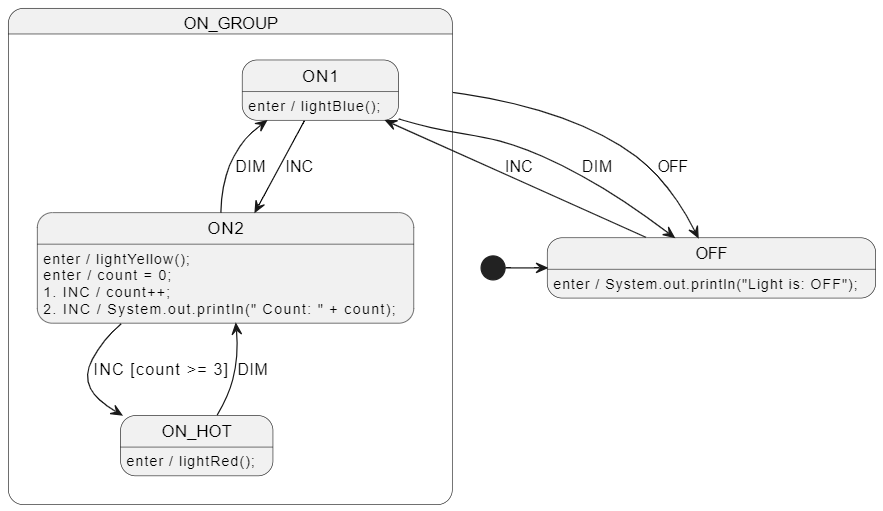
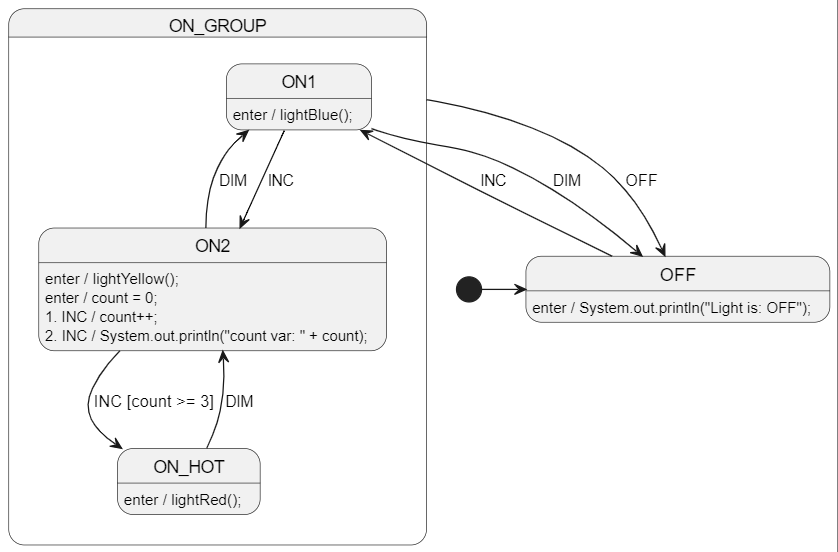
update ss.cli and print `count var:`

diff --git a/lesson-4/python/LightSm.sim.html b/lesson-4/python/LightSm.sim.html
@@ -240,7 +240,7 @@ state ON_GROUP {
 
         ON2 : 1. INC / #123; count += 1 #125;
 
-        ON2 : 2. INC / #123; print("vars.count#58#59; " + str(count)) #125;
+        ON2 : 2. INC / #123; print("count var#58#59; " + str(count)) #125;
 
         ON_HOT
 
@@ -250,7 +250,9 @@ state ON_GROUP {
 
 }
 
-state "$initial_state" as ROOT.(InitialState)
+%% Initial state name as "." so that it fits in black circle shape.
+%% See https://github.com/StateSmith/StateSmith/issues/404
+state "." as ROOT.(InitialState)
 
 OFF --> ON1 : INC
 
@@ -300,7 +302,7 @@ ROOT.(InitialState) --> OFF
     </div>
 
 <script>
-// Autogenerated with StateSmith 0.15.1+6f3f27c9be334eeec7dd0a477c6e8bd766e80440.
+// Autogenerated with StateSmith 0.17.0+b2b9f4338d0406e391502823cb5cfc243fb01849.
 // Algorithm: Balanced2. See https://github.com/StateSmith/StateSmith/wiki/Algorithms
 
 // Generated state machine
@@ -777,10 +779,10 @@ evaluateGuard = null;
         } // end of behavior for ON2
         
         // ON2 behavior
-        // uml: 2. INC / { this.tracer?.log("⚡ FSM would execute action: " + "print(\"vars.count: \" + str(count))"); }
+        // uml: 2. INC / { this.tracer?.log("⚡ FSM would execute action: " + "print(\"count var: \" + str(count))"); }
         {
-            // Step 1: execute action `this.tracer?.log("⚡ FSM would execute action: " + "print(\"vars.count: \" + str(count))");`
-            this.tracer?.log("⚡ FSM would execute action: " + "print(\"vars.count: \" + str(count))");
+            // Step 1: execute action `this.tracer?.log("⚡ FSM would execute action: " + "print(\"count var: \" + str(count))");`
+            this.tracer?.log("⚡ FSM would execute action: " + "print(\"count var: \" + str(count))");
         } // end of behavior for ON2
         
         // ON2 behavior
@@ -850,10 +852,11 @@ evaluateGuard = null;
             marker.setAttribute('markerUnits', 'userSpaceOnUse');
         });
 
+        // https://github.com/StateSmith/StateSmith/issues/404
         // https://github.com/StateSmith/StateSmith/issues/294
         // rewrite $initial_state to a black circle
         document.querySelectorAll('g[data-id*="(InitialState)"]').forEach(g=> {
-          g.innerHTML = '<circle transform="translate(0,10)" height="14" width="14" r="7" class="state - start"></circle>';
+          g.innerHTML = '<circle transform="translate(0,3)" height="14" width="14" r="14" class="state - start"></circle>';
         })
 
         var panZoom = window.panZoom = svgPanZoom(document.querySelector('svg'), {

diff --git a/lesson-4/cpp-gcc/LightSm.sim.html b/lesson-4/cpp-gcc/LightSm.sim.html
@@ -240,7 +240,7 @@ state ON_GROUP {
 
         ON2 : 1. INC / #123; count++#59; #125;
 
-        ON2 : 2. INC / #123; std#58#59;#58#59;cout << "vars.count#58#59; " << count << '#92;n'#59; #125;
+        ON2 : 2. INC / #123; std#58#59;#58#59;cout << "count var#58#59; " << count << '#92;n'#59; #125;
 
         ON_HOT
 
@@ -302,7 +302,7 @@ ROOT.(InitialState) --> OFF
     </div>
 
 <script>
-// Autogenerated with StateSmith 0.17.0+ef13205f9fee8a859b83ba447ab4a4f82141858b.
+// Autogenerated with StateSmith 0.17.0+b2b9f4338d0406e391502823cb5cfc243fb01849.
 // Algorithm: Balanced2. See https://github.com/StateSmith/StateSmith/wiki/Algorithms
 
 // Generated state machine
@@ -779,10 +779,10 @@ evaluateGuard = null;
         } // end of behavior for ON2
         
         // ON2 behavior
-        // uml: 2. INC / { this.tracer?.log("⚡ FSM would execute action: " + "std::cout << \"vars.count: \" << count << '\n';"); }
+        // uml: 2. INC / { this.tracer?.log("⚡ FSM would execute action: " + "std::cout << \"count var: \" << count << '\n';"); }
         {
-            // Step 1: execute action `this.tracer?.log("⚡ FSM would execute action: " + "std::cout << \"vars.count: \" << count << '\n';");`
-            this.tracer?.log("⚡ FSM would execute action: " + "std::cout << \"vars.count: \" << count << '\n';");
+            // Step 1: execute action `this.tracer?.log("⚡ FSM would execute action: " + "std::cout << \"count var: \" << count << '\n';");`
+            this.tracer?.log("⚡ FSM would execute action: " + "std::cout << \"count var: \" << count << '\n';");
         } // end of behavior for ON2
         
         // ON2 behavior

diff --git a/lesson-4/cpp2-gcc/LightSm.sim.html b/lesson-4/cpp2-gcc/LightSm.sim.html
@@ -240,7 +240,7 @@ state ON_GROUP {
 
         ON2 : 1. INC / #123; count++#59; #125;
 
-        ON2 : 2. INC / #123; std#58#59;#58#59;cout << "vars.count#58#59; " << count << '#92;n'#59; #125;
+        ON2 : 2. INC / #123; std#58#59;#58#59;cout << "count var#58#59; " << count << '#92;n'#59; #125;
 
         ON_HOT
 
@@ -302,7 +302,7 @@ ROOT.(InitialState) --> OFF
     </div>
 
 <script>
-// Autogenerated with StateSmith 0.17.0+ef13205f9fee8a859b83ba447ab4a4f82141858b.
+// Autogenerated with StateSmith 0.17.0+b2b9f4338d0406e391502823cb5cfc243fb01849.
 // Algorithm: Balanced2. See https://github.com/StateSmith/StateSmith/wiki/Algorithms
 
 // Generated state machine
@@ -779,10 +779,10 @@ evaluateGuard = null;
         } // end of behavior for ON2
         
         // ON2 behavior
-        // uml: 2. INC / { this.tracer?.log("⚡ FSM would execute action: " + "std::cout << \"vars.count: \" << count << '\n';"); }
+        // uml: 2. INC / { this.tracer?.log("⚡ FSM would execute action: " + "std::cout << \"count var: \" << count << '\n';"); }
         {
-            // Step 1: execute action `this.tracer?.log("⚡ FSM would execute action: " + "std::cout << \"vars.count: \" << count << '\n';");`
-            this.tracer?.log("⚡ FSM would execute action: " + "std::cout << \"vars.count: \" << count << '\n';");
+            // Step 1: execute action `this.tracer?.log("⚡ FSM would execute action: " + "std::cout << \"count var: \" << count << '\n';");`
+            this.tracer?.log("⚡ FSM would execute action: " + "std::cout << \"count var: \" << count << '\n';");
         } // end of behavior for ON2
         
         // ON2 behavior

diff --git a/lesson-4/java/my_light_package/LightSm.sim.html b/lesson-4/java/my_light_package/LightSm.sim.html
@@ -240,7 +240,7 @@ state ON_GROUP {
 
         ON2 : 1. INC / #123; count++#59; #125;
 
-        ON2 : 2. INC / #123; System.out.println("vars.count#58#59; " + count)#59; #125;
+        ON2 : 2. INC / #123; System.out.println("count var#58#59; " + count)#59; #125;
 
         ON_HOT
 
@@ -302,7 +302,7 @@ ROOT.(InitialState) --> OFF
     </div>
 
 <script>
-// Autogenerated with StateSmith 0.17.0+ef13205f9fee8a859b83ba447ab4a4f82141858b.
+// Autogenerated with StateSmith 0.17.0+b2b9f4338d0406e391502823cb5cfc243fb01849.
 // Algorithm: Balanced2. See https://github.com/StateSmith/StateSmith/wiki/Algorithms
 
 // Generated state machine
@@ -779,10 +779,10 @@ evaluateGuard = null;
         } // end of behavior for ON2
         
         // ON2 behavior
-        // uml: 2. INC / { this.tracer?.log("⚡ FSM would execute action: " + "System.out.println(\"vars.count: \" + count);"); }
+        // uml: 2. INC / { this.tracer?.log("⚡ FSM would execute action: " + "System.out.println(\"count var: \" + count);"); }
         {
-            // Step 1: execute action `this.tracer?.log("⚡ FSM would execute action: " + "System.out.println(\"vars.count: \" + count);");`
-            this.tracer?.log("⚡ FSM would execute action: " + "System.out.println(\"vars.count: \" + count);");
+            // Step 1: execute action `this.tracer?.log("⚡ FSM would execute action: " + "System.out.println(\"count var: \" + count);");`
+            this.tracer?.log("⚡ FSM would execute action: " + "System.out.println(\"count var: \" + count);");
         } // end of behavior for ON2
         
         // ON2 behavior

diff --git a/lesson-4/csharp/LightSm.sim.html b/lesson-4/csharp/LightSm.sim.html
@@ -240,7 +240,7 @@ state ON_GROUP {
 
         ON2 : 1. INC / #123; count++#59; #125;
 
-        ON2 : 2. INC / #123; Console.WriteLine("vars.count#58#59; " + count)#59; #125;
+        ON2 : 2. INC / #123; Console.WriteLine("count var#58#59; " + count)#59; #125;
 
         ON_HOT
 
@@ -302,7 +302,7 @@ ROOT.(InitialState) --> OFF
     </div>
 
 <script>
-// Autogenerated with StateSmith 0.17.0+ef13205f9fee8a859b83ba447ab4a4f82141858b.
+// Autogenerated with StateSmith 0.17.0+b2b9f4338d0406e391502823cb5cfc243fb01849.
 // Algorithm: Balanced2. See https://github.com/StateSmith/StateSmith/wiki/Algorithms
 
 // Generated state machine
@@ -779,10 +779,10 @@ evaluateGuard = null;
         } // end of behavior for ON2
         
         // ON2 behavior
-        // uml: 2. INC / { this.tracer?.log("⚡ FSM would execute action: " + "Console.WriteLine(\"vars.count: \" + count);"); }
+        // uml: 2. INC / { this.tracer?.log("⚡ FSM would execute action: " + "Console.WriteLine(\"count var: \" + count);"); }
         {
-            // Step 1: execute action `this.tracer?.log("⚡ FSM would execute action: " + "Console.WriteLine(\"vars.count: \" + count);");`
-            this.tracer?.log("⚡ FSM would execute action: " + "Console.WriteLine(\"vars.count: \" + count);");
+            // Step 1: execute action `this.tracer?.log("⚡ FSM would execute action: " + "Console.WriteLine(\"count var: \" + count);");`
+            this.tracer?.log("⚡ FSM would execute action: " + "Console.WriteLine(\"count var: \" + count);");
         } // end of behavior for ON2
         
         // ON2 behavior

diff --git a/lesson-4/js-node/LightSm.sim.html b/lesson-4/js-node/LightSm.sim.html
@@ -240,7 +240,7 @@ state ON_GROUP {
 
         ON2 : 1. INC / #123; count++#59; #125;
 
-        ON2 : 2. INC / #123; console.log("vars.count#58#59; " + count)#59; #125;
+        ON2 : 2. INC / #123; console.log("count var#58#59; " + count)#59; #125;
 
         ON_HOT
 
@@ -302,7 +302,7 @@ ROOT.(InitialState) --> OFF
     </div>
 
 <script>
-// Autogenerated with StateSmith 0.16.0+33b97786003f067f9b746ce5870937de5ee23d56.
+// Autogenerated with StateSmith 0.17.0+b2b9f4338d0406e391502823cb5cfc243fb01849.
 // Algorithm: Balanced2. See https://github.com/StateSmith/StateSmith/wiki/Algorithms
 
 // Generated state machine
@@ -779,10 +779,10 @@ evaluateGuard = null;
         } // end of behavior for ON2
         
         // ON2 behavior
-        // uml: 2. INC / { this.tracer?.log("⚡ FSM would execute action: " + "console.log(\"vars.count: \" + count);"); }
+        // uml: 2. INC / { this.tracer?.log("⚡ FSM would execute action: " + "console.log(\"count var: \" + count);"); }
         {
-            // Step 1: execute action `this.tracer?.log("⚡ FSM would execute action: " + "console.log(\"vars.count: \" + count);");`
-            this.tracer?.log("⚡ FSM would execute action: " + "console.log(\"vars.count: \" + count);");
+            // Step 1: execute action `this.tracer?.log("⚡ FSM would execute action: " + "console.log(\"count var: \" + count);");`
+            this.tracer?.log("⚡ FSM would execute action: " + "console.log(\"count var: \" + count);");
         } // end of behavior for ON2
         
         // ON2 behavior

diff --git a/lesson-4/ts-node/LightSm.sim.html b/lesson-4/ts-node/LightSm.sim.html
@@ -240,7 +240,7 @@ state ON_GROUP {
 
         ON2 : 1. INC / #123; count++#59; #125;
 
-        ON2 : 2. INC / #123; console.log("vars.count#58#59; " + count)#59; #125;
+        ON2 : 2. INC / #123; console.log("count var#58#59; " + count)#59; #125;
 
         ON_HOT
 
@@ -302,7 +302,7 @@ ROOT.(InitialState) --> OFF
     </div>
 
 <script>
-// Autogenerated with StateSmith 0.16.0+33b97786003f067f9b746ce5870937de5ee23d56.
+// Autogenerated with StateSmith 0.17.0+b2b9f4338d0406e391502823cb5cfc243fb01849.
 // Algorithm: Balanced2. See https://github.com/StateSmith/StateSmith/wiki/Algorithms
 
 // Generated state machine
@@ -779,10 +779,10 @@ evaluateGuard = null;
         } // end of behavior for ON2
         
         // ON2 behavior
-        // uml: 2. INC / { this.tracer?.log("⚡ FSM would execute action: " + "console.log(\"vars.count: \" + count);"); }
+        // uml: 2. INC / { this.tracer?.log("⚡ FSM would execute action: " + "console.log(\"count var: \" + count);"); }
         {
-            // Step 1: execute action `this.tracer?.log("⚡ FSM would execute action: " + "console.log(\"vars.count: \" + count);");`
-            this.tracer?.log("⚡ FSM would execute action: " + "console.log(\"vars.count: \" + count);");
+            // Step 1: execute action `this.tracer?.log("⚡ FSM would execute action: " + "console.log(\"count var: \" + count);");`
+            this.tracer?.log("⚡ FSM would execute action: " + "console.log(\"count var: \" + count);");
         } // end of behavior for ON2
         
         // ON2 behavior

diff --git a/lesson-4/c99-gcc/LightSm.sim.html b/lesson-4/c99-gcc/LightSm.sim.html
@@ -240,7 +240,7 @@ state ON_GROUP {
 
         ON2 : 1. INC / #123; count++#59; #125;
 
-        ON2 : 2. INC / #123; printf("vars.count#58#59; %i#92;n", count)#59; #125;
+        ON2 : 2. INC / #123; printf("count var#58#59; %i#92;n", count)#59; #125;
 
         ON_HOT
 
@@ -302,7 +302,7 @@ ROOT.(InitialState) --> OFF
     </div>
 
 <script>
-// Autogenerated with StateSmith 0.17.0+ef13205f9fee8a859b83ba447ab4a4f82141858b.
+// Autogenerated with StateSmith 0.17.0+b2b9f4338d0406e391502823cb5cfc243fb01849.
 // Algorithm: Balanced2. See https://github.com/StateSmith/StateSmith/wiki/Algorithms
 
 // Generated state machine
@@ -779,10 +779,10 @@ evaluateGuard = null;
         } // end of behavior for ON2
         
         // ON2 behavior
-        // uml: 2. INC / { this.tracer?.log("⚡ FSM would execute action: " + "printf(\"vars.count: %i\n\", count);"); }
+        // uml: 2. INC / { this.tracer?.log("⚡ FSM would execute action: " + "printf(\"count var: %i\n\", count);"); }
         {
-            // Step 1: execute action `this.tracer?.log("⚡ FSM would execute action: " + "printf(\"vars.count: %i\n\", count);");`
-            this.tracer?.log("⚡ FSM would execute action: " + "printf(\"vars.count: %i\n\", count);");
+            // Step 1: execute action `this.tracer?.log("⚡ FSM would execute action: " + "printf(\"count var: %i\n\", count);");`
+            this.tracer?.log("⚡ FSM would execute action: " + "printf(\"count var: %i\n\", count);");
         } // end of behavior for ON2
         
         // ON2 behavior

diff --git a/lesson-4/ts-node/out/LightSm.js b/lesson-4/ts-node/out/LightSm.js
@@ -1,5 +1,5 @@
 "use strict";
-// Autogenerated with StateSmith 0.16.0+33b97786003f067f9b746ce5870937de5ee23d56.
+// Autogenerated with StateSmith 0.17.0+b2b9f4338d0406e391502823cb5cfc243fb01849.
 // Algorithm: Balanced2. See https://github.com/StateSmith/StateSmith/wiki/Algorithms
 var __extends = (this && this.__extends) || (function () {
     var extendStatics = function (d, b) {
@@ -342,10 +342,10 @@ var LightSm = /** @class */ (function (_super) {
             this.vars.count++;
         } // end of behavior for ON2
         // ON2 behavior
-        // uml: 2. INC / { console.log("vars.count: " + count); }
+        // uml: 2. INC / { console.log("count var: " + count); }
         {
-            // Step 1: execute action `console.log("vars.count: " + count);`
-            console.log("vars.count: " + this.vars.count);
+            // Step 1: execute action `console.log("count var: " + count);`
+            console.log("count var: " + this.vars.count);
         } // end of behavior for ON2
         // ON2 behavior
         // uml: INC [count >= 3] TransitionTo(ON_HOT)

diff --git a/lesson-4/ts-node/LightSm.ts b/lesson-4/ts-node/LightSm.ts
@@ -1,4 +1,4 @@
-// Autogenerated with StateSmith 0.16.0+33b97786003f067f9b746ce5870937de5ee23d56.
+// Autogenerated with StateSmith 0.17.0+b2b9f4338d0406e391502823cb5cfc243fb01849.
 // Algorithm: Balanced2. See https://github.com/StateSmith/StateSmith/wiki/Algorithms
 
 // any text you put in IRenderConfig.FileTop (like this comment) will be written to the generated .h file
@@ -409,10 +409,10 @@ export class LightSm extends LightSmBase
         } // end of behavior for ON2
         
         // ON2 behavior
-        // uml: 2. INC / { console.log("vars.count: " + count); }
+        // uml: 2. INC / { console.log("count var: " + count); }
         {
-            // Step 1: execute action `console.log("vars.count: " + count);`
-            console.log("vars.count: " + this.vars.count);
+            // Step 1: execute action `console.log("count var: " + count);`
+            console.log("count var: " + this.vars.count);
         } // end of behavior for ON2
         
         // ON2 behavior

diff --git a/lesson-4/js-node/LightSm.js b/lesson-4/js-node/LightSm.js
@@ -1,4 +1,4 @@
-// Autogenerated with StateSmith 0.16.0+33b97786003f067f9b746ce5870937de5ee23d56.
+// Autogenerated with StateSmith 0.17.0+b2b9f4338d0406e391502823cb5cfc243fb01849.
 // Algorithm: Balanced2. See https://github.com/StateSmith/StateSmith/wiki/Algorithms
 
 "use strict";    
@@ -405,10 +405,10 @@ export class LightSm extends LightSmBase
         } // end of behavior for ON2
         
         // ON2 behavior
-        // uml: 2. INC / { console.log("vars.count: " + count); }
+        // uml: 2. INC / { console.log("count var: " + count); }
         {
-            // Step 1: execute action `console.log("vars.count: " + count);`
-            console.log("vars.count: " + this.vars.count);
+            // Step 1: execute action `console.log("count var: " + count);`
+            console.log("count var: " + this.vars.count);
         } // end of behavior for ON2
         
         // ON2 behavior

diff --git a/lesson-4/cpp2-gcc/LightSm.cpp b/lesson-4/cpp2-gcc/LightSm.cpp
@@ -1,4 +1,4 @@
-// Autogenerated with StateSmith 0.17.0+ef13205f9fee8a859b83ba447ab4a4f82141858b.
+// Autogenerated with StateSmith 0.17.0+b2b9f4338d0406e391502823cb5cfc243fb01849.
 // Algorithm: Balanced2. See https://github.com/StateSmith/StateSmith/wiki/Algorithms
 
 // Whatever you put in this `FileTop` section will end up 
@@ -7,7 +7,7 @@
 #include "LightSm.h"
 #include <stdbool.h> // required for `consume_event` flag
 #include <string.h> // for memset
-#include <iostream> // user include. required for printf.
+#include <iostream> // user include. required for printing action code.
 
 
 
@@ -384,10 +384,10 @@ void LightSm::ON2_inc()
     } // end of behavior for ON2
     
     // ON2 behavior
-    // uml: 2. INC / { std::cout << "vars.count: " << count << '\n'; }
+    // uml: 2. INC / { std::cout << "count var: " << count << '\n'; }
     {
-        // Step 1: execute action `std::cout << "vars.count: " << count << '\n';`
-        std::cout << "vars.count: " << count << '\n';
+        // Step 1: execute action `std::cout << "count var: " << count << '\n';`
+        std::cout << "count var: " << count << '\n';
     } // end of behavior for ON2
     
     // ON2 behavior
